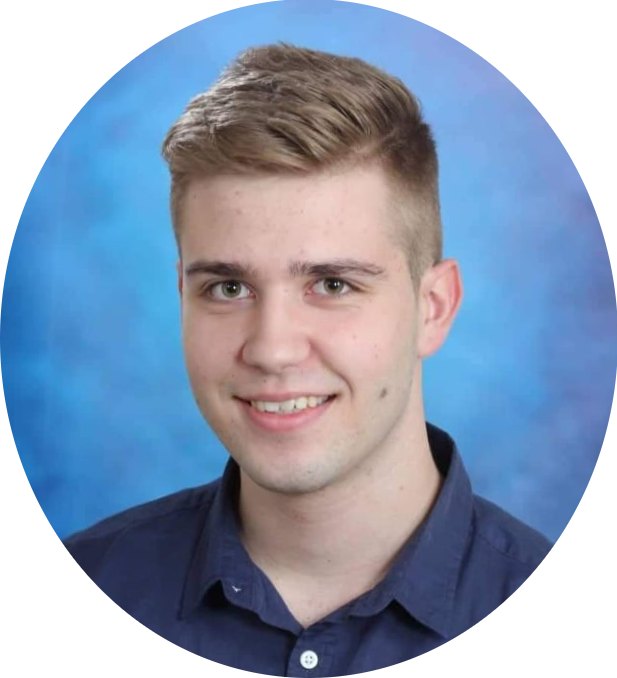
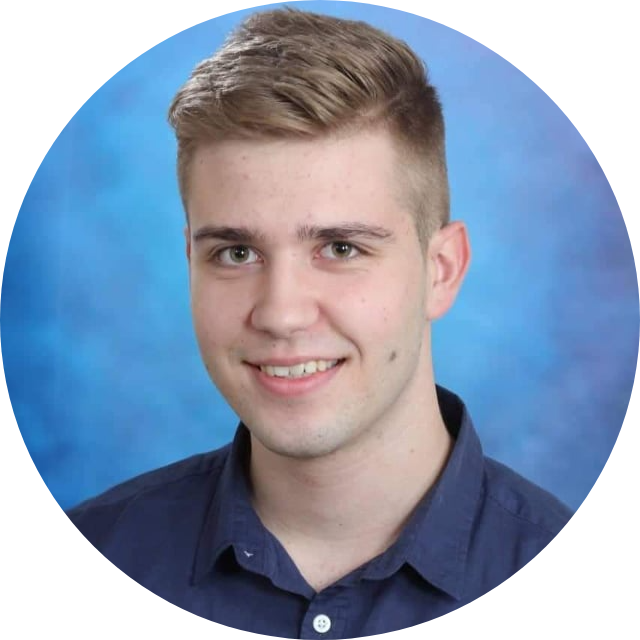
AboutUs page imperfections resolved and responsive design

diff --git a/aboutUsStyles.css b/aboutUsStyles.css
@@ -7,7 +7,7 @@
 }
 
 .main--aboutUs{
-    height: 100vh;
+    height: 120vh;
     background-image: url("/Images/backgroundspace.jpg");
 }
 .main--aboutUs .header{
@@ -17,15 +17,15 @@
     height: 10%;
 }
 .header h1{
-    margin-top: 50px;
+    margin-top: 1em;
     font-size: 3rem;
     color: white;
 }
 .icons{
-    width: 250px;
+    width: 18em;
     margin-left: auto;
     margin-right: auto;
-    margin-bottom: 20px;
+    margin-bottom: 1em;
     display: flex;
     justify-content: space-between;
 }
@@ -34,14 +34,16 @@ img.aboutUsPhoto{
     margin-left: auto;
     margin-right: auto;
     margin-top: 3%;
-    margin-bottom: 20px;
+    margin-bottom: 1em;
     display: flex;
     justify-content: center;
+    height: 300px;
+    width: 300px;
 }
 
 p{
-    margin-left: 40%;
-    margin-right: 40%;
+    margin-left: 30%;
+    margin-right: 30%;
     text-align: justify;
     color: #fff;
     font-size: 1.2rem;
@@ -50,5 +52,125 @@ p{
 }
 
 img.icon{
-    height: 70px;
+    height: 5em;
+}
+
+@media (max-width: 1200px){
+    *{
+        box-sizing: border-box;
+        margin: 0;
+        padding: 0;
+        font-family: 'Poppins', sans-serif;
+        scroll-behavior: smooth;
+    }
+    
+    .main--aboutUs{
+        height: 100vh;
+        background-image: url("/Images/backgroundspace.jpg");
+    }
+    .main--aboutUs .header{
+        display: flex;
+        justify-content: center;
+        align-items: center;
+        height: 10%;
+    }
+    .header h1{
+        margin-top: 1em;
+        font-size: 2.5rem;
+        color: white;
+    }
+    .icons{
+        width: 12em;
+        margin-left: auto;
+        margin-right: auto;
+        margin-bottom: 1em;
+        display: flex;
+        justify-content: space-between;
+    }
+    
+    img.aboutUsPhoto{
+        margin-left: auto;
+        margin-right: auto;
+        margin-top: 3%;
+        margin-bottom: 1em;
+        display: flex;
+        justify-content: center;
+        height: 250px;
+        width: 250px;
+    }
+    
+    p{
+        margin-left: 30%;
+        margin-right: 30%;
+        text-align: justify;
+        color: #fff;
+        font-size: 1rem;
+        display: flex;
+        justify-content: center;
+    }
+    
+    img.icon{
+        height: 3.4em;
+    }
+    
+}
+
+@media (max-width: 800px){
+    *{
+        box-sizing: border-box;
+        margin: 0;
+        padding: 0;
+        font-family: 'Poppins', sans-serif;
+        scroll-behavior: smooth;
+    }
+    
+    .main--aboutUs{
+        height: 120vh;
+        background-image: url("/Images/backgroundspace.jpg");
+    }
+    .main--aboutUs .header{
+        display: flex;
+        justify-content: center;
+        align-items: center;
+        height: 10%;
+    }
+    .header h1{
+        margin-top: 1em;
+        font-size: 2.5rem;
+        color: white;
+    }
+    .icons{
+        width: 12em;
+        margin-left: auto;
+        margin-right: auto;
+        margin-bottom: 1em;
+        display: flex;
+        justify-content: space-between;
+    }
+    
+    img.aboutUsPhoto{
+        margin-left: auto;
+        margin-right: auto;
+        margin-top: 3%;
+        margin-bottom: 1em;
+        display: flex;
+        justify-content: center;
+        height: 200px;
+        width: 200px;
+    }
+    
+    p{
+        margin-left: 30%;
+        margin-right: 30%;
+        text-align: justify;
+        color: #fff;
+        font-size: 1rem;
+        display: flex;
+        justify-content: center;
+    }
+    
+    img.icon{
+        height: 3.4em;
+    }
+    
 }

diff --git a/TarikV.html b/TarikV.html
@@ -13,7 +13,7 @@
         <div class="header">
             <h1>About me</h1>
         </div>
-        <img class="aboutUsPhoto" src="/Images/TarikV.png" width=300px height=300px alt="TarikM">
+        <img class="aboutUsPhoto" src="/Images/TarikV.png" alt="TarikM">
         <div class="icons">
             <a href="https://www.facebook.com/profile.php?id=100009380435096"><img class="icon" src="/Images/Facebook.png" alt=""></a>
             <a href="https://www.instagram.com/tarik.valjak/"><img class="icon" src="/Images/Instagram.png" alt="">  </a>

diff --git a/TarikM.html b/TarikM.html
@@ -13,7 +13,7 @@
         <div class="header">
             <h1>About me</h1>
         </div>
-        <img class="aboutUsPhoto" src="/Images/TarikM.png" width=300px height=300px alt="TarikM">
+        <img class="aboutUsPhoto" src="/Images/TarikM.png" alt="TarikM">
         <div class="icons">
             <a href="https://www.facebook.com/mujke23"><img class="icon" src="/Images/Facebook.png" alt=""></a>
             <a href="https://www.instagram.com/mujke23/"><img class="icon" src="/Images/Instagram.png" alt="">  </a>
